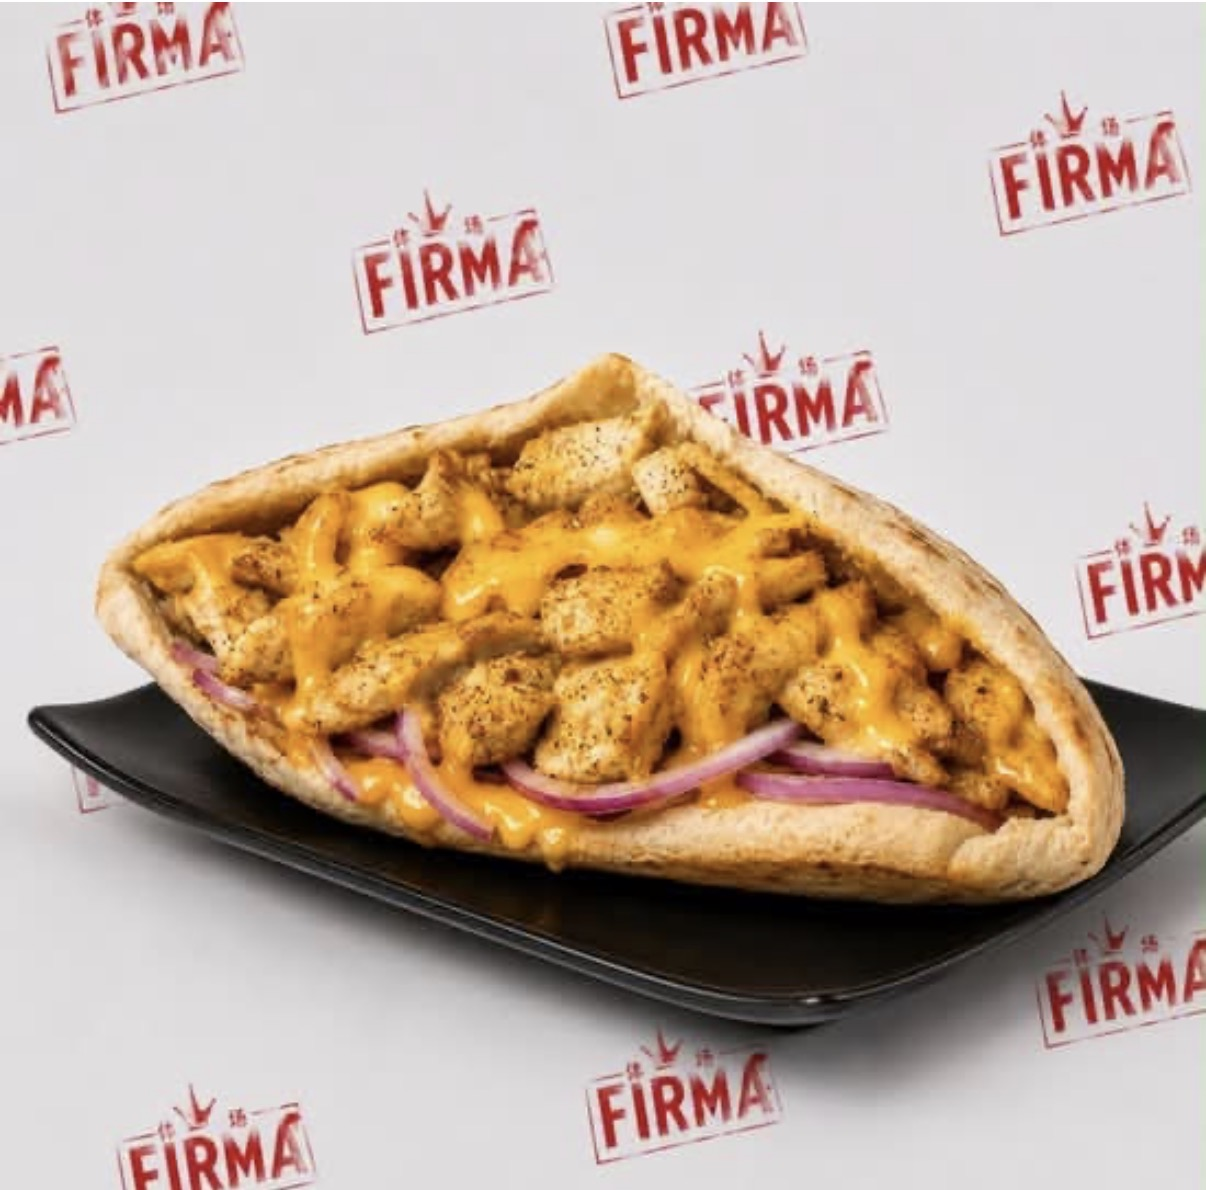
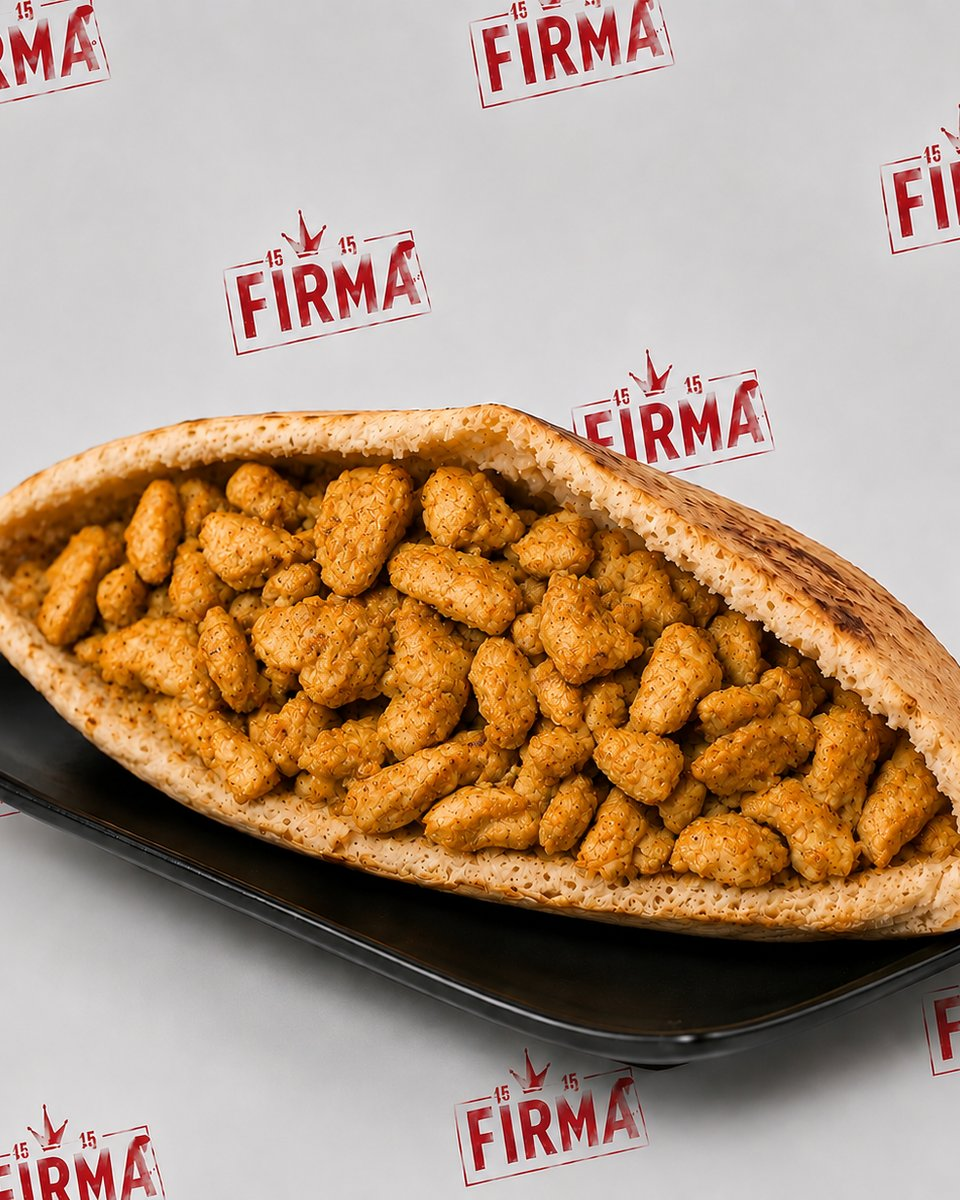
Actualizar fotos de bocatas y añadir F32 Bocamixto
Sustituye las fotos de BocaTandoo y Bocacurry por las nuevas del
cliente, y añade el nuevo bocata F32 Bocamixto (6,50 €).

diff --git a/data/products.ts b/data/products.ts
@@ -247,6 +247,14 @@ export const categories: Category[] = [
         description: "Curry y cebolla caramelizada. + Menú patatas y bebida 2,50 €",
         image: "/images/products/f31-bocacurry.jpg",
       },
+      {
+        id: "f32-bocamixto",
+        code: "F32",
+        name: "Bocamixto",
+        price: 6.5,
+        description: "Mezcla de carne picada y pollo, cebolla y salsa La Firma. + Menú patatas y bebida 2,50 €",
+        image: "/images/products/f32-bocamixto.jpg",
+      },
     ],
   },
   {
